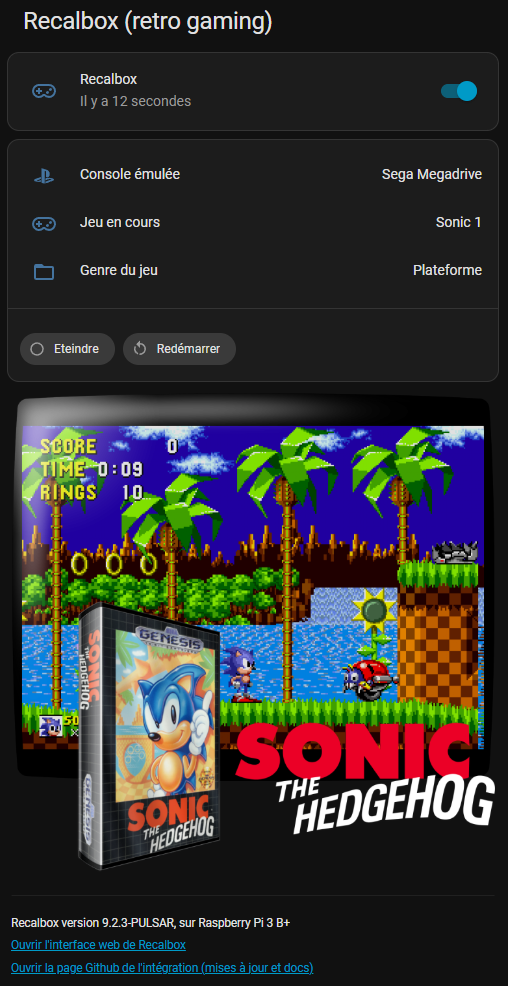
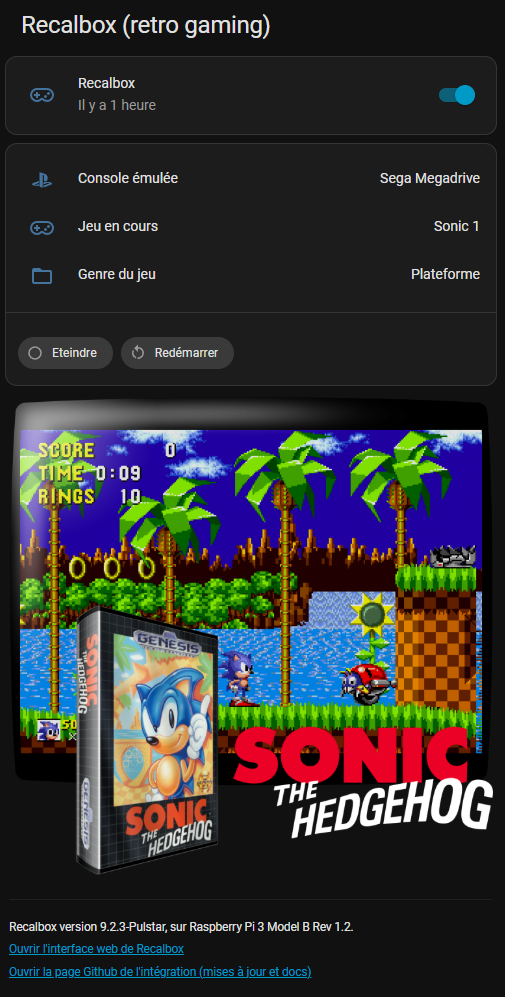
Display actual hardware, recalbox version, and remove the default values

diff --git a/README.md b/README.md
@@ -36,6 +36,8 @@ The attributes read by Home Assistant are, through this JSON :
 - `genre `: genre of the running game, user friendly. null if no game launched.
 - `genreId `: genreId of the running game. null if no game launched. Can be useful for automation where you want to set lights colors depending on type of game for example.
 - `imageUrl `: URL to the image of the current game. null if no game running. The picture exists only if the game has been scrapped.
+- `recalboxVersion` : Version of the Recalbox OS
+- `hardware` : Device running the Recalbox
 
 Two buttons can also be used to stop/reboot the recalbox via Home Assistant.
 
@@ -212,7 +214,6 @@ intents:
 
 ## Todo
 
-- [ ] Get the actual Recalbox version and device to be shown in the dashboard
 - [ ] Implement the launch game via SSH if possible (we already know if we found the game, the rom path, and system. Only need a way to launch it on device)
 - [ ] Internationalization
 
@@ -222,11 +223,13 @@ intents:
 ### v0.0.2 - In progress...
 
 - Update the example dashboard template, to use the device information to display it at the bottom of the Recalbox column
-- Changes the device infos in the yaml, as Recalbox 9.2.3 on Raspberry Pi3. The actual version and device will be dynamic later
-- Moved variables to be changed on top of the `recalbox.yaml` file
+- Moved variables to be changed on top of the `recalbox.yaml` file. The version and hardware are not hardcoded anymore.
 - Adds web links to recalbox web manager, and to this repository to get updates
-- Add SSH installation info to launch a game
 - Try to search for a game even if the recalbox is not seen connected
+- Add `recalboxVersion` and `hardware` in the MQTT message sent to Home Assistant. So HA can know the OS version and device of Recalbox.
+- Update the recalbox_card example with actual Recabox version and hardware
+- Recalbox now sends messages to MQTT in retain mode
+- Add SSH installation info to launch a game
 - SSH implementation for game launch ???
 
 
